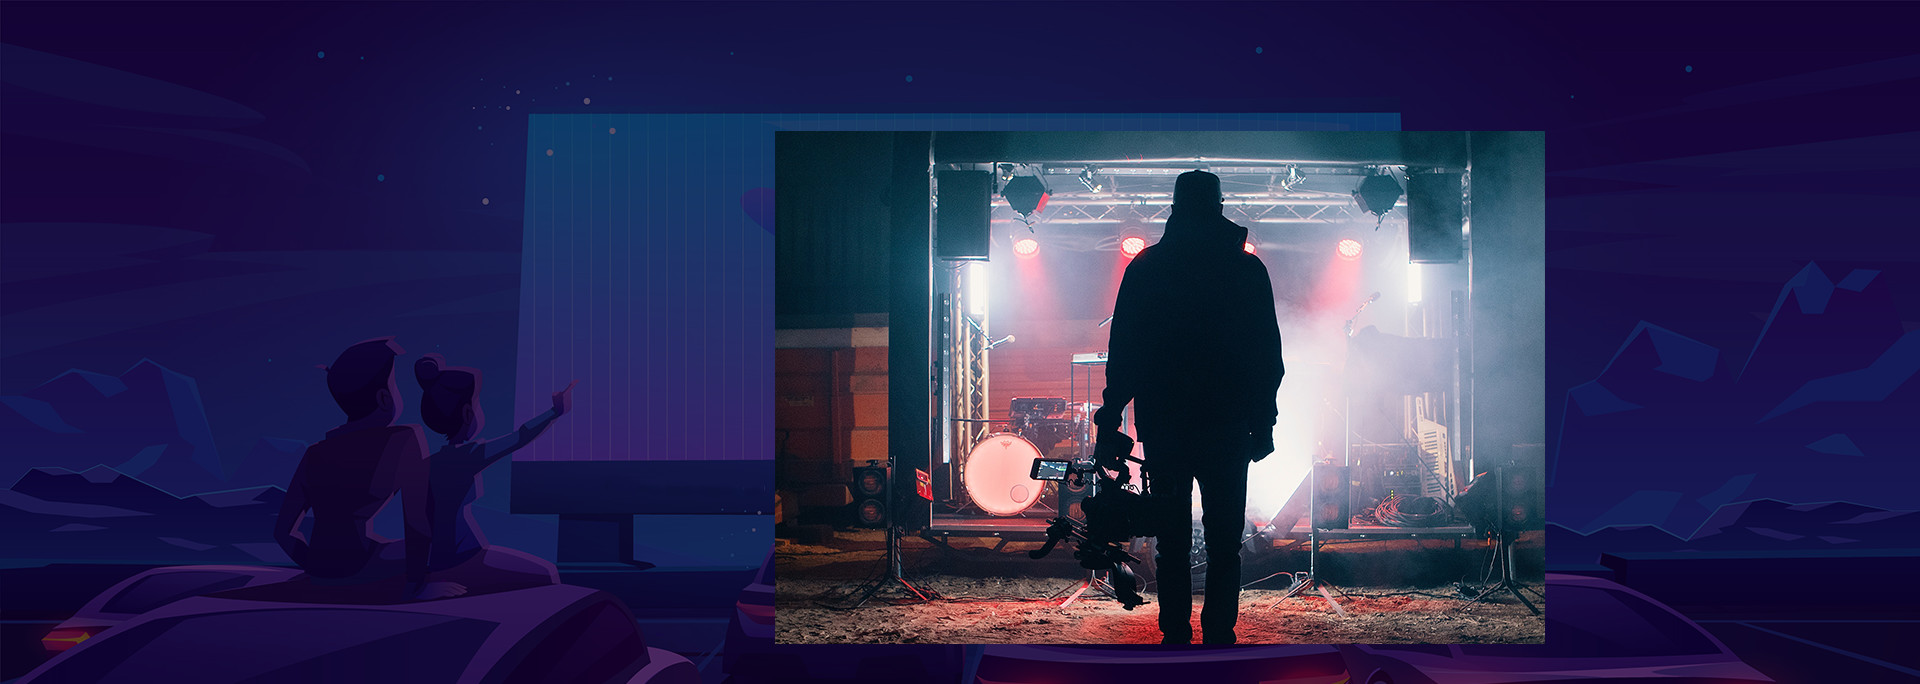
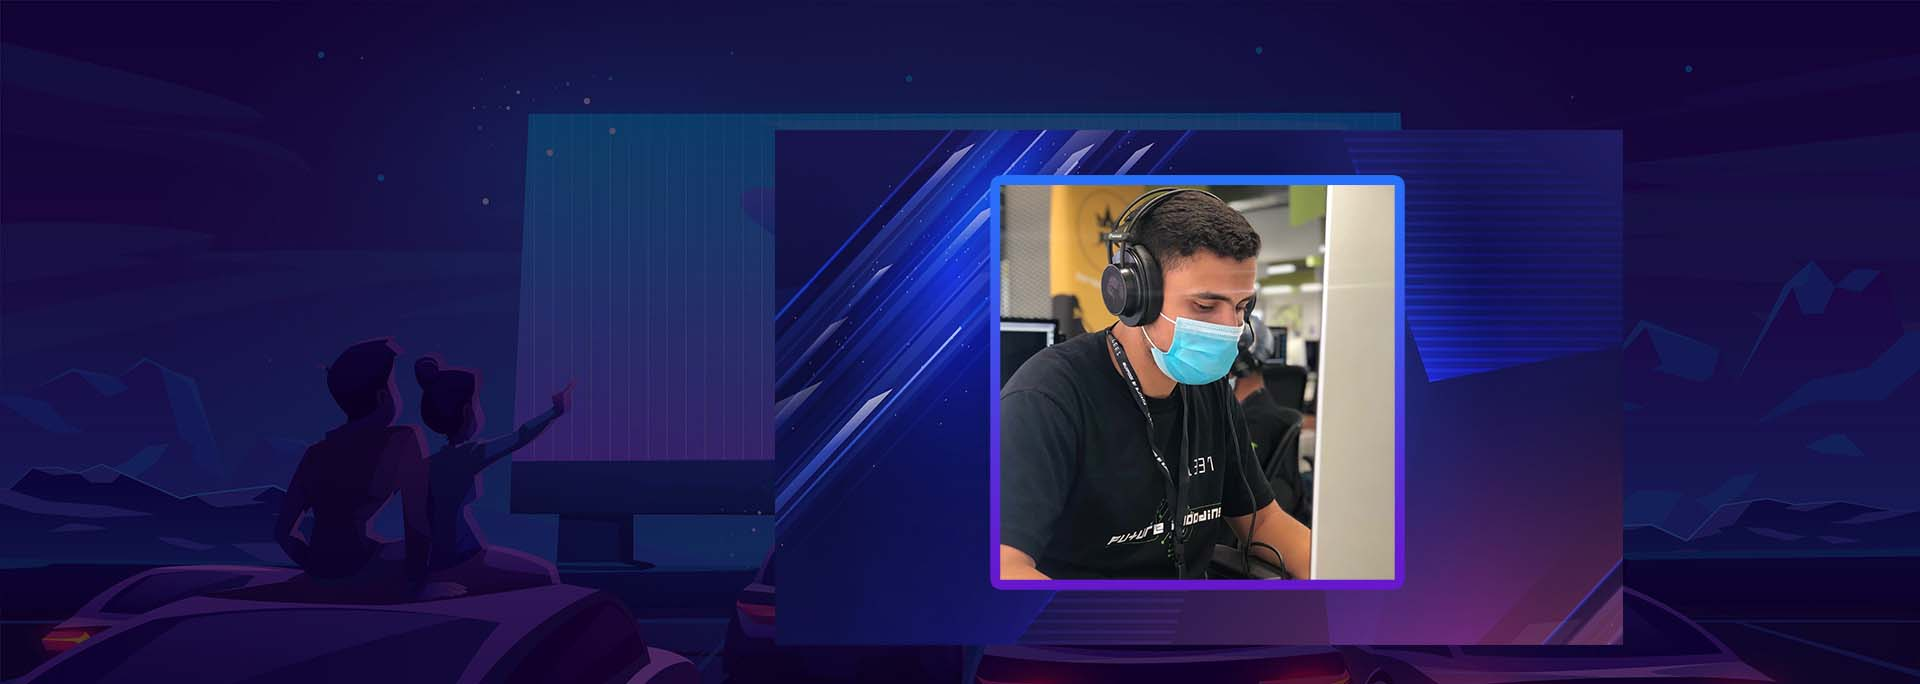
first commit

Changed region(s): [[0.4062, 0.1842, 0.8438, 0.9518]]

diff --git a/index.html b/index.html
@@ -81,8 +81,8 @@
                     <div class="row">
                         <div class="col-lg-6">
                             <div class="hero__text">
-                                <span>For website and video editing</span>
-                                <h2>Videographer’s Portfolio</h2>
+                                <span>Full Stack Developer</span>
+                                <h2>Zakariae Mrabet</h2>
                                 <a href="#" class="primary-btn">See more about us</a>
                             </div>
                         </div>
@@ -94,21 +94,8 @@
                     <div class="row">
                         <div class="col-lg-6">
                             <div class="hero__text">
-                                <span>For website and video editing</span>
-                                <h2>Videographer’s Portfolio</h2>
-                                <a href="#" class="primary-btn">See more about us</a>
-                            </div>
-                        </div>
-                    </div>
-                </div>
-            </div>
-            <div class="hero__item set-bg" data-setbg="img/hero/hero-1.jpg">
-                <div class="container">
-                    <div class="row">
-                        <div class="col-lg-6">
-                            <div class="hero__text">
-                                <span>For website and video editing</span>
-                                <h2>Videographer’s Portfolio</h2>
+                                <span>Data Scientist</span>
+                                <h2>Zakariae Mrabet</h2>
                                 <a href="#" class="primary-btn">See more about us</a>
                             </div>
                         </div>
@@ -126,8 +113,8 @@
                 <div class="col-lg-4">
                     <div class="services__title">
                         <div class="section-title">
-                            <span>Our services</span>
-                            <h2>What We do?</h2>
+                            <span>My services</span>
+                            <h2>What I do?</h2>
                         </div>
                         <p>If you hire a videographer of our team you will get a video professional to make a custom
                             video for your business and, once the project is over.</p>
@@ -139,9 +126,9 @@
                         <div class="col-lg-6 col-md-6 col-sm-6">
                             <div class="services__item">
                                 <div class="services__item__icon">
-                                    <img src="img/icons/si-1.png" alt="">
+                                    <img src="https://img.icons8.com/pastel-glyph/40/FFFFFF/code--v2.png" alt="">
                                 </div>
-                                <h4>Motion graphics</h4>
+                                <h4>Web Development</h4>
                                 <p>Whether you’re halfway through the editing process, or you haven’t even started, our
                                     post production services can put the finishing touches.</p>
                             </div>
